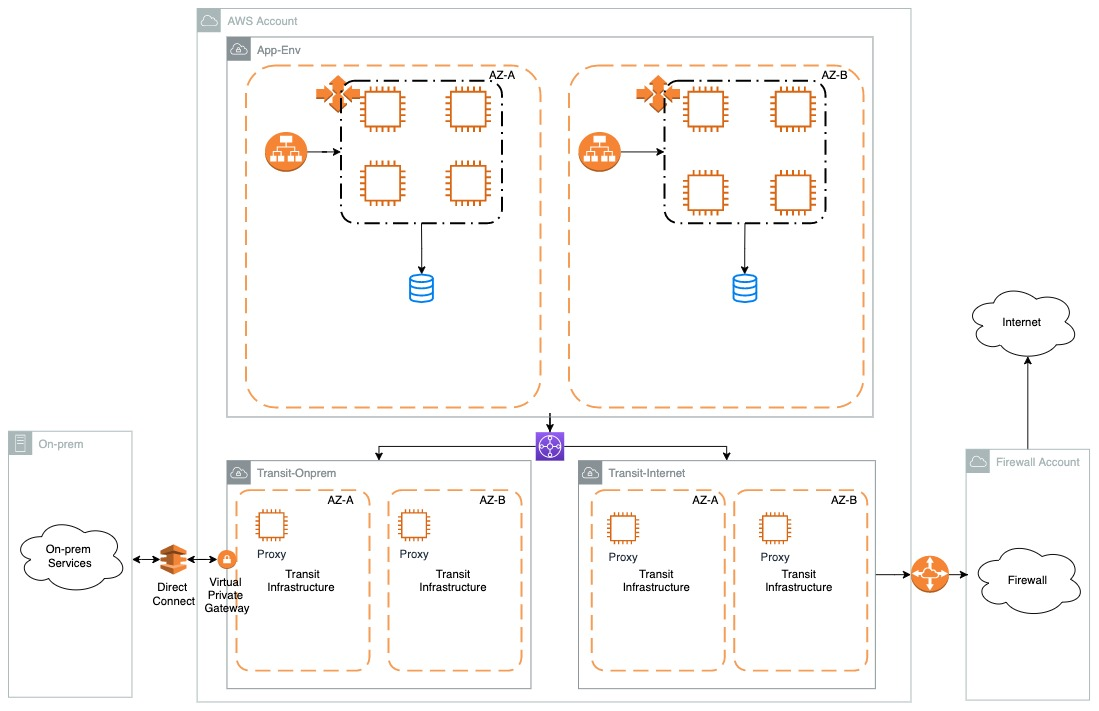
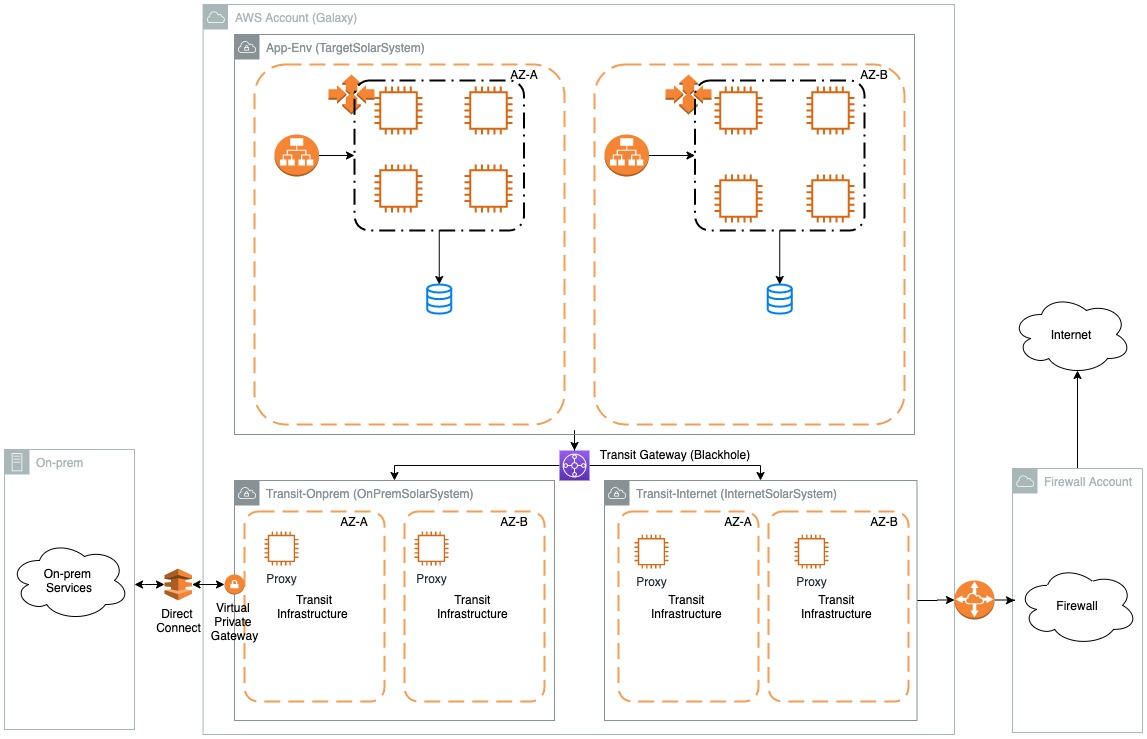
Inital changes to update docs

diff --git a/doc_source/getting_started.md b/doc_source/getting_started.md
@@ -1,0 +1,62 @@
+# Getting Started With the Cosmos
+
+This topic describes how to install and configure the AWS CDK and how to use Cosmos library.
+
+**Tip**  
+The [AWS Toolkit for Visual Studio Code](https://aws.amazon.com/visualstudiocode/) is an open source plug-in for Visual Studio Code that makes it easier to create, debug, and deploy applications on AWS. The toolkit provides an integrated experience for developing AWS CDK applications, including the AWS CDK Explorer feature to list your AWS CDK projects and browse the various components of the CDK application. [Install the AWS Toolkit](https://docs.aws.amazon.com/toolkit-for-vscode/latest/userguide/setup-toolkit.html) and learn more about [using the AWS CDK Explorer](https://docs.aws.amazon.com/toolkit-for-vscode/latest/userguide/cdk-explorer.html).
+
+## Prerequisites
+
+All CDK developers need to install [Node.js](https://nodejs.org/en/download) (>= 10.3.0), even those working in languages other than TypeScript or JavaScript. The AWS CDK Toolkit (`cdk` command-line tool) and the AWS Construct Library are developed in TypeScript and run on Node.js.
+
+You must provide your credentials and an AWS Region to use the AWS CDK CLI, as described in [Specifying Your Credentials and Region](https://github.com/awsdocs/aws-cdk-guide/blob/master/doc_source/getting_started.md#getting_started_credentials).
+
+---
+
+#### TypeScript
+
+TypeScript >= 2.7
+
+### Installing the AWS CDK
+
+Install the AWS CDK using the following command.
+
+```
+npm install -g aws-cdk
+```
+
+Run the following command to verify correct installation and print the version number of the AWS CDK.
+
+```
+cdk --version
+```
+
+## How to consume Cosmos
+
+The Cosmos follows a pattern of layers. At the top we have `Cosmos` where you declare singleton items requires for your infrastructure portfolio across your different AWS accounts. Underneath there is `Galaxy` where you define all your resources which are account specific. Under each Galaxy you can have your `SolarSystems` which are your deployment environments like traditional (Dev, Test, Prod). You can create your `Core` Infrastructure in these 3 layers which can be shared across different Apps/Teams to consume it.
+
+At the consumer side, you `extend` the `Core` infrastructure by adding any specific resources required by your App(e.g. specific ECS Task for your app which you can deploy in `Core ECS Cluster` defined earlier as part of your `Core SolarSystem`). You do this by using `Extensions`.
+
+There are 2 sets of Template repositories which can help quickly getting started with the process.
+- [cosmos-core-cdk](https://github.com/cdk-cosmos/cosmos-core-cdk) - Template for Cosmos Core Cdk App
+- [cosmos-extension-cdk](https://github.com/cdk-cosmos/cosmos-extension-cdk) - Template for Cosmos Extension Cdk Apps
+
+## Let's get started...!!!
+
+### Core Infrastructure
+
+1. Clone this repo (https://github.com/cdk-cosmos/cosmos-core-cdk.git).
+2. Run `npm install`
+3. Open `bin/main.ts` and change the project name from `DemoCore` to your core project name.
+   - Also change cidr ranges for galaxies (Accounts)
+   - Also Change anything else as needed.
+   - Though We recommend you leave any solar system disabled during bootstrap (Enabled later).
+4. Aws Cli Login.
+5. Bootstrap Ci/Cd, run `npx cdk deploy Core-${Project}-${Account}-CiCd-SolarSystem` (Please change to your project and account name).
+6. Bootstrap Accounts, run `npx cdk deploy Core-${Project}-${Account}-Galaxy` for each account that you have (you will need to change credentials).
+7. Update git remote url `git remote set-url origin "https://git-codecommit.ap-southeast-2.amazonaws.com/v1/repos/core-cdk-repo"` (Please change region etc as required).
+8. Enable your Solar Systems, commit, push and then deploy your changes using the pipeline (`git commit` and `git push`, run Pipeline `Core-Cdk-Pipeline`).
+9. Your Done: Now use the core cdk pipeline to deploy any further changes to your app cdk code.
+
+### Extension Infrastructure (For an App to consume the Core)
+

diff --git a/doc_source/home.md b/doc_source/home.md
@@ -1,0 +1,23 @@
+# What is CDK Cosmos?
+
+CDK Cosmos is a collection of libraries and patterns created using AWS CDK. It encapsulate common patterns and practices followed in enterprises to create infrastructure in AWS. Many organisations use different implementations of AWS design patterns for example to achieve high availability, disaster recovery, security, AWS Organisations etc. Cosmos tries to use those pattern to setup your AWS infrastructure portfolio. It simplifies complex component infrastructure and wraps them into higher level constructs.
+
+For more information on AWS-CDK, checkout the official documentations from AWS [here](https://docs.aws.amazon.com/cdk/latest/guide/home.html).
+
+## Cosmos repositories
+
+Cosmos project is divided into following repositories:
+
+- [cosmos](https://github.com/cdk-cosmos/cosmos) - Cosmos Package
+- [cosmos-core-cdk](https://github.com/cdk-cosmos/cosmos-core-cdk) - Template for Cosmos Core Cdk App
+- [cosmos-extension-cdk](https://github.com/cdk-cosmos/cosmos-extension-cdk) - Template for Cosmos Extension Cdk Apps
+
+## Basic Understanding
+
+Cosmos is broken down into 3 scopes (Bubbles)
+
+- **Cosmos**: Top level scope of the entire infrastructure, mostly singleton shared resources.
+- **Galaxy**: Account level scope that defines infrastructure for an aws account.
+- **SolarSystem**: Environment level scope that defines infrastructure for an environment with in an aws account (Dev, Tst, Prd).
+
+![cosmos_img](Cosmos1.png)

diff --git a/README.md b/README.md
@@ -1,22 +1,8 @@
-# Law of the Cosmos (Docs)
+# Welcome to the Law of the Cosmos (Docs)
 
-# Problems
-- Not easy to rebuild infra
-- Hard to understand the infra architecture
+This is the GitHub repository for the **AWS CDK Cosmos Guide**
 
-# Features
+## Project Board
 
-- Minimal Repos per app. E.G. Code repo + CDK repo per app. (Could be less?)
-- Auto Tagging and Logging for high level constructs
-- Auto DNS names for services. (internal? lb ?) (able to hit internally first before public ?)
-- Initial base pipeline to deploy application
-- Blue Green deployment + Delayed/Approval based switch
-- Easy rollbacks
-
-# Objectives
-
-- Enterprise Infrastructure 
-- Simple Deployments: Bootstrapping + Changes to the infrastructure.
-- Libraries: High level CDK patterns
-- AWS Native First
-- Performance and Reliability
+Have a look at the AWS CDK Developer Guide [Project Board](https://github.com/orgs/cdk-cosmos/projects/1) 
+to see what we're working on at the moment. 

diff --git a/doc_source/building_blocks.md b/doc_source/building_blocks.md
@@ -1,0 +1,13 @@
+# What are building blocks?
+
+CDK Building blocks are small, reusable cdk constructs patterns which we can easily wrap in a Cosmos pattern.
+
+## Building block package
+
+[@cosmos-building-blocks](https://github.com/cdk-cosmos/cosmos/tree/master/packages/%40cosmos-building-blocks)
+
+## Building block examples
+
+- [**app-ec2**](https://github.com/cdk-cosmos/cosmos/tree/master/packages/%40cosmos-building-blocks/app-ec2): ALB-NLB combo which exposes underlying service as an endpoint.
+- [**pipeline**](https://github.com/cdk-cosmos/cosmos/tree/master/packages/%40cosmos-building-blocks/pipeline): codepipeline with source, build and deploy stages.
+- [**service**](https://github.com/cdk-cosmos/cosmos/tree/master/packages/%40cosmos-building-blocks/service): An ECS Task fronted with service and loadbalancer target group.

diff --git a/doc_source/misc.md b/doc_source/misc.md
@@ -1,0 +1,21 @@
+## Problems
+
+- Not easy to rebuild infra
+- Hard to understand the infra architecture
+
+## Features
+
+- Minimal Repos per app. E.G. Code repo + CDK repo per app. (Could be less?)
+- Auto Tagging and Logging for high level constructs
+- Auto DNS names for services. (internal? lb ?) (able to hit internally first before public ?)
+- Initial base pipeline to deploy application
+- Blue Green deployment + Delayed/Approval based switch
+- Easy rollbacks
+
+## Objectives
+
+- Enterprise Infrastructure
+- Simple Deployments: Bootstrapping + Changes to the infrastructure.
+- Libraries: High level CDK patterns
+- AWS Native First
+- Performance and Reliability
